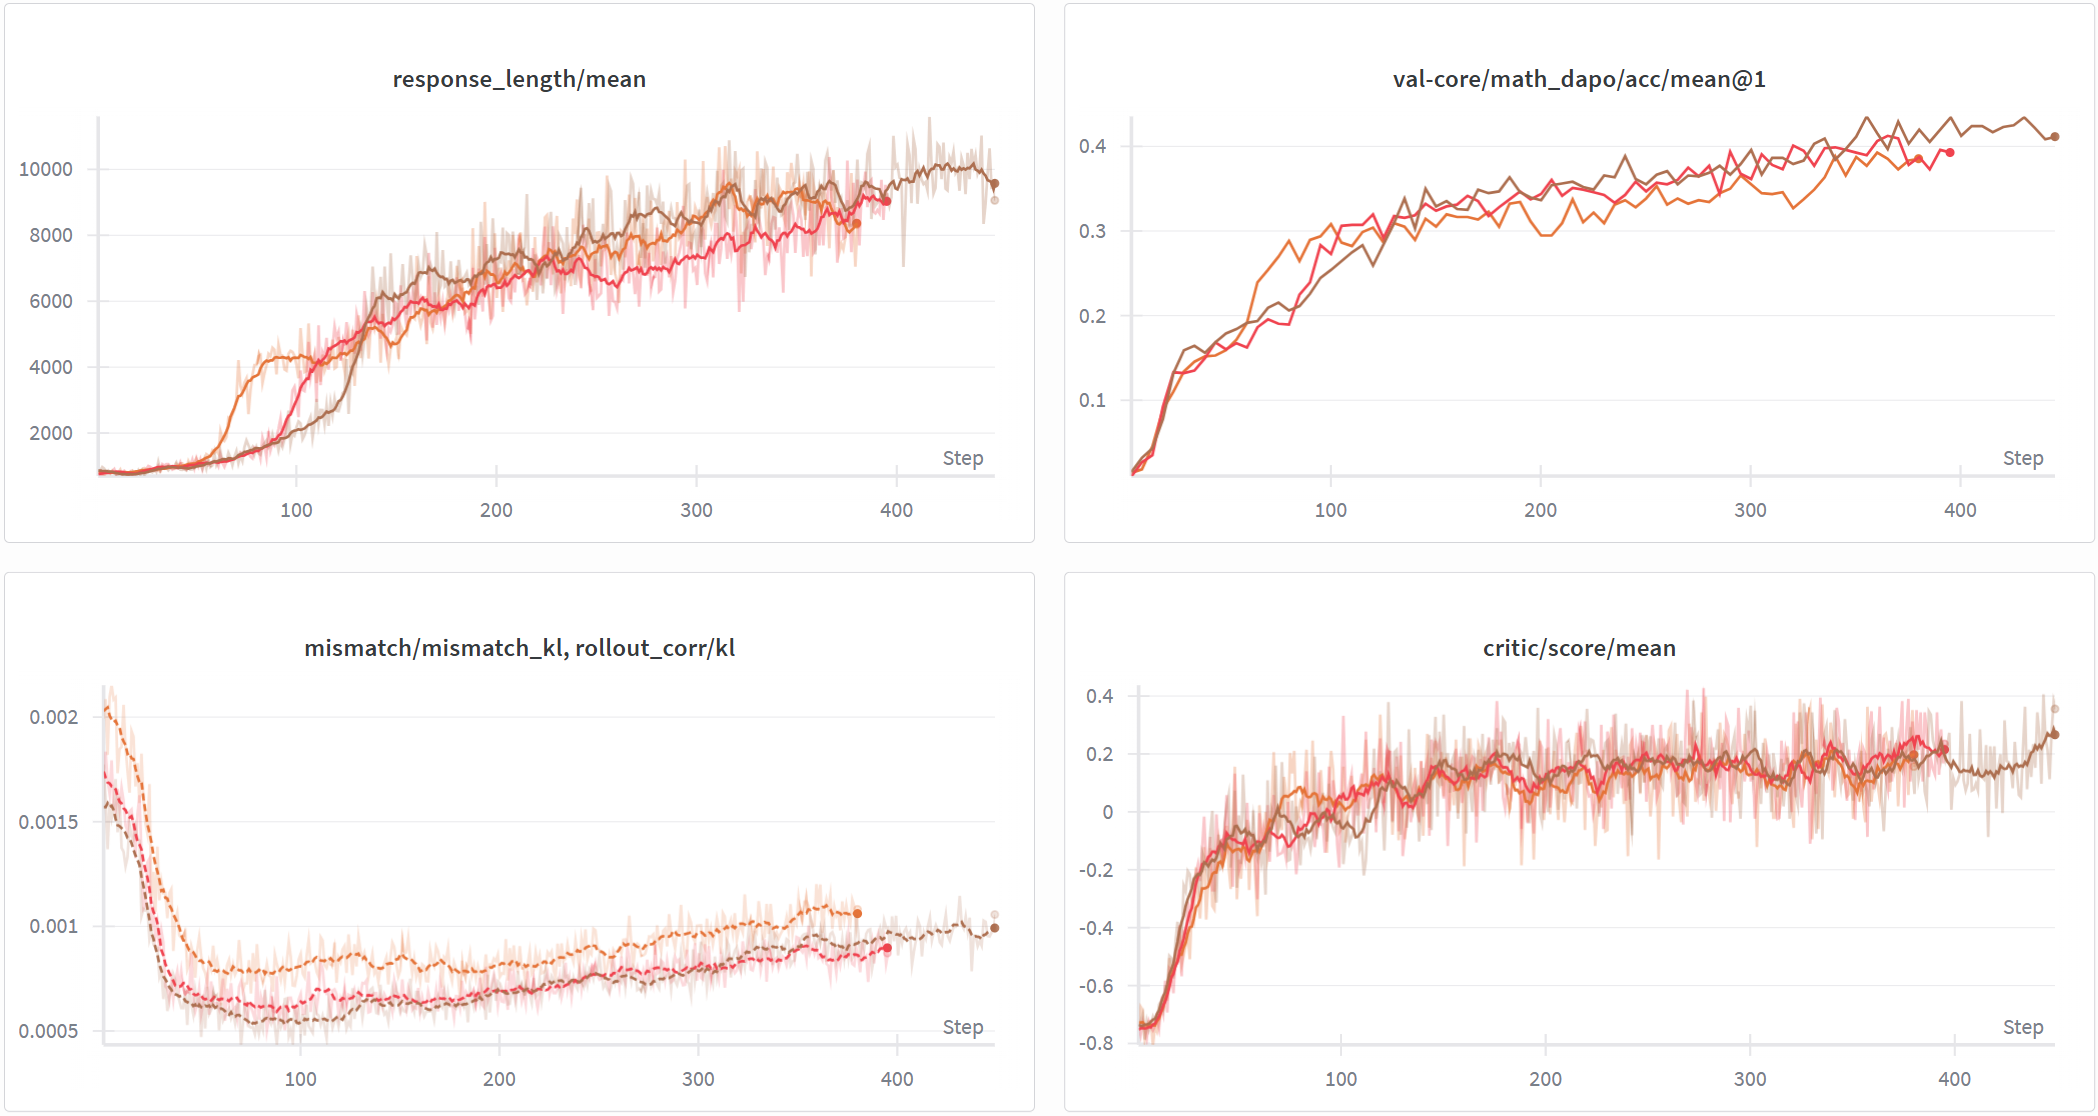
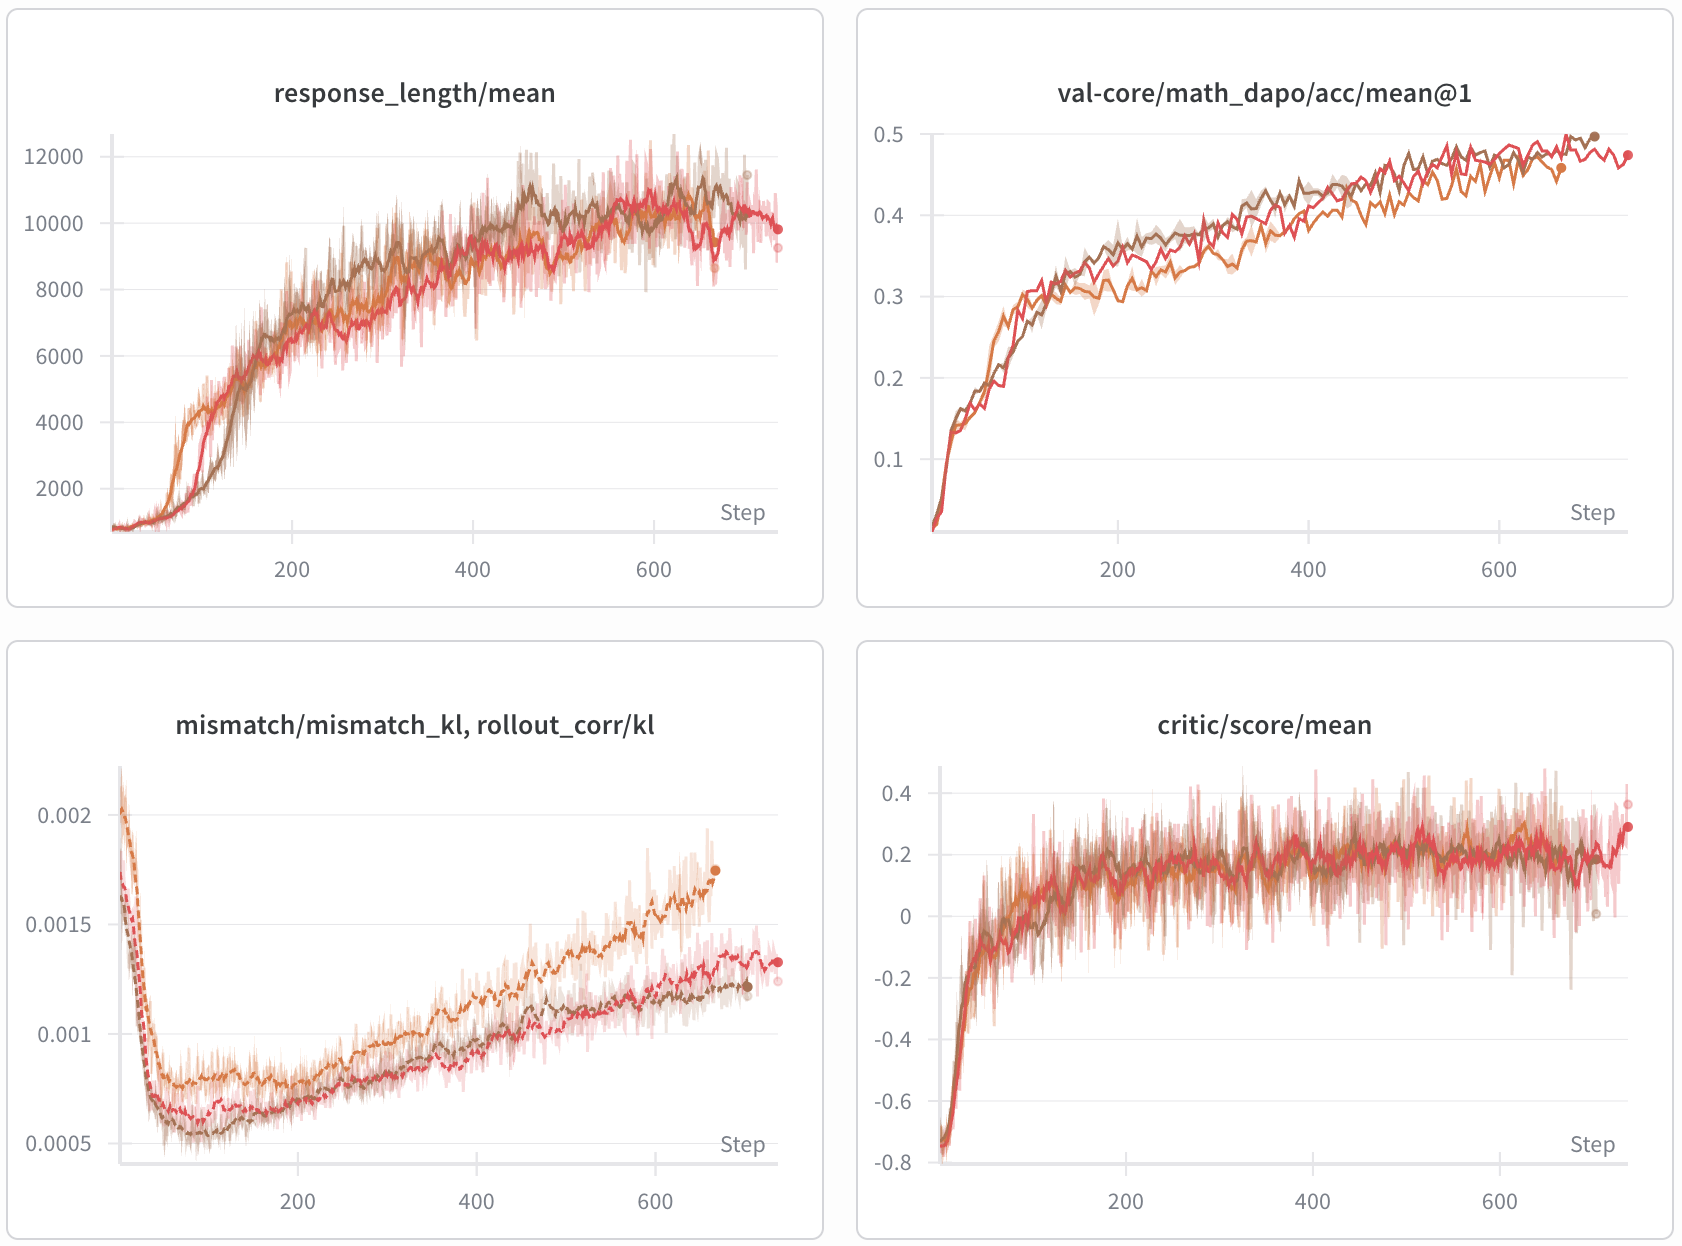
feat(qat): Support QAT (NVFP4) in FSDPEngine for the unified engine_workers architecture and switch to main_dapo (#52)
- Migrate QAT config from actor.qat to actor.fsdp_config.qat to support
NVFP4 QAT in engine_workers.py
- Switch run scripts entry point from main_ppo to main_dapo
- Update README

---------

diff --git a/qat/README.md b/qat/README.md
@@ -36,13 +36,15 @@ bash recipe/qat/run_qwen3_30b_w4a16_FFN_only.sh
 
 ### QAT Configuration
 
+QAT is configured under `actor_rollout_ref.actor.fsdp_config.qat`:
+
 | Parameter | Description | Default |
 |-----------|-------------|---------|
-| `qat.enable` | Enable QAT | `False` |
-| `qat.mode` | Quantization mode | `"w4a16"` |
-| `qat.group_size` | Quantization group size | `16` |
-| `qat.ignore_patterns` | Layer name patterns to ignore (supports regex) | `["lm_head", "embed_tokens", "re:.*mlp.gate$"]` |
-| `qat.quantization_config_path` | vLLM quantization config JSON path | `recipe/qat/config/nvfp4_w4a16.json` |
+| `fsdp_config.qat.enable` | Enable QAT | `False` |
+| `fsdp_config.qat.mode` | Quantization mode | `"w4a16"` |
+| `fsdp_config.qat.group_size` | Quantization group size | `16` |
+| `fsdp_config.qat.ignore_patterns` | Layer name patterns to ignore (supports regex) | `["lm_head", "embed_tokens", "re:.*mlp.gate$"]` |
+| `fsdp_config.qat.quantization_config_path` | vLLM quantization config JSON path | `recipe/qat/config/nvfp4_w4a16.json` |
 
 ### YAML Configuration Examples
 
@@ -51,15 +53,16 @@ bash recipe/qat/run_qwen3_30b_w4a16_FFN_only.sh
 ```yaml
 actor_rollout_ref:
   actor:
-    qat:
-      enable: true
-      mode: "w4a16"
-      group_size: 16
-      ignore_patterns:
-        - "lm_head"
-        - "embed_tokens"
-        - "re:.*mlp.gate$"
-      quantization_config_path: "recipe/qat/config/nvfp4_w4a16.json"
+    fsdp_config:
+      qat:
+        enable: true
+        mode: "w4a16"
+        group_size: 16
+        ignore_patterns:
+          - "lm_head"
+          - "embed_tokens"
+          - "re:.*mlp.gate$"
+        quantization_config_path: "recipe/qat/config/nvfp4_w4a16.json"
 ```
 
 **FFN-only Quantization** (exclude Attention Linear layers):
@@ -67,16 +70,17 @@ actor_rollout_ref:
 ```yaml
 actor_rollout_ref:
   actor:
-    qat:
-      enable: true
-      mode: "w4a16"
-      group_size: 16
-      ignore_patterns:
-        - "lm_head"
-        - "embed_tokens"
-        - "re:.*mlp.gate$"
-        - "re:.*self_attn.*"
-      quantization_config_path: "recipe/qat/config/nvfp4_w4a16.json"
+    fsdp_config:
+      qat:
+        enable: true
+        mode: "w4a16"
+        group_size: 16
+        ignore_patterns:
+          - "lm_head"
+          - "embed_tokens"
+          - "re:.*mlp.gate$"
+          - "re:.*self_attn.*"
+        quantization_config_path: "recipe/qat/config/nvfp4_w4a16.json"
 ```
 
 ---
@@ -188,6 +192,7 @@ Validating QAT effectiveness on larger models. Results are consistent with the 8
 | W4A16 + QAT (FFN-only) | Red |
 
 <img src="./img/image4.png">
+<img src="./img/image5.png">
 
 **Memory Analysis**
 
